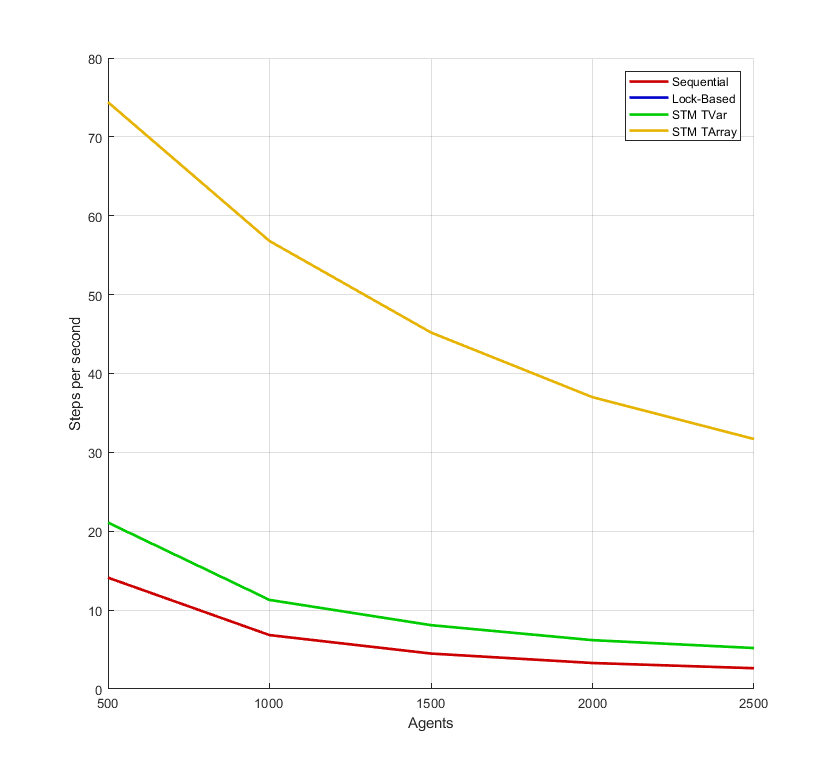
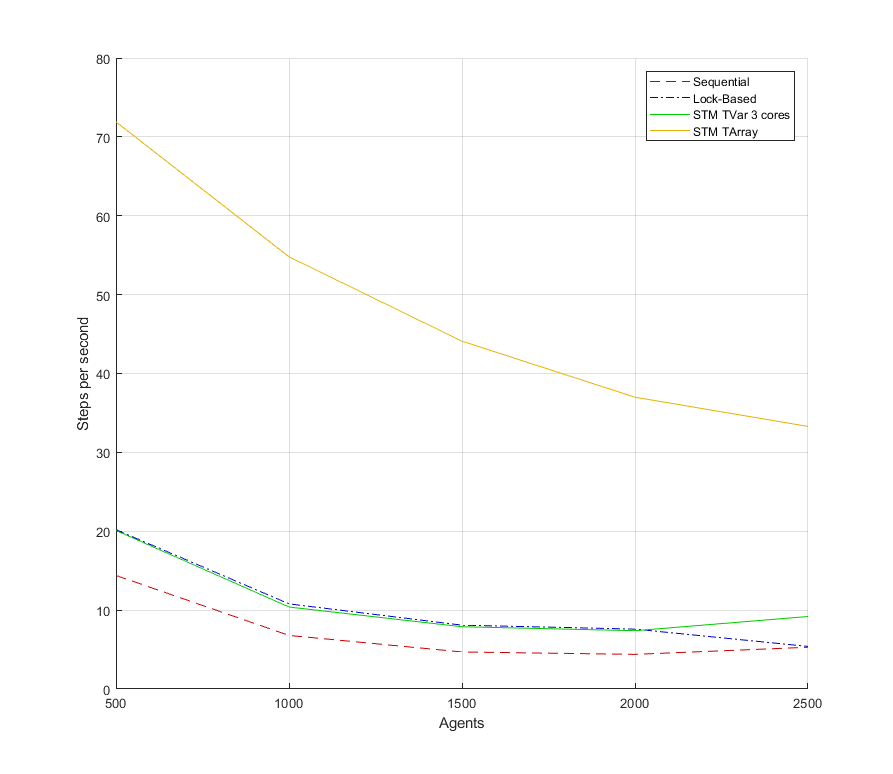
re-rendered matlab figures

diff --git a/writing/papers/workingdrafts/stmabs/results/sug/varying_cores.m b/writing/papers/workingdrafts/stmabs/results/sug/varying_cores.m
@@ -13,15 +13,21 @@ cores = [1, 2, 3, 4];
 figure;
 hold on;
 yyaxis left
-plot(cores, sequential, 'Color', [0.7, 0, 0], 'LineWidth', 2);
-plot(cores, io, 'Color', [0, 0, 0.8], 'LineWidth', 2);
-plot(cores, stm_tvar, 'Color', [0, 0.7, 0], 'LineWidth', 2);
-plot(cores, stm_tarray, 'Color', [0, 0.7, 0], 'LineWidth', 2);
+% plot(cores, sequential, 'Color', [0.7, 0, 0], 'LineWidth', 2);
+% plot(cores, io, 'Color', [0, 0, 0.8], 'LineWidth', 2);
+% plot(cores, stm_tvar, 'Color', [0, 0.7, 0], 'LineWidth', 2);
+% plot(cores, stm_tarray, 'Color', [0, 0.7, 0], 'LineWidth', 2);
+plot(cores, sequential);
+plot(cores, io);
+plot(cores, stm_tvar);
+plot(cores, stm_tarray);
 ylabel ("Steps per second");
 
 yyaxis right
-plot (cores, stm_tvar_retries, 'Color', [0.9, 0.7, 0], 'LineWidth', 2);
-plot (cores, stm_tarray_retries, 'Color', [0.9, 0.7, 0], 'LineWidth', 2);
+% plot (cores, stm_tvar_retries, 'Color', [0.9, 0.7, 0], 'LineWidth', 2);
+% plot (cores, stm_tarray_retries, 'Color', [0.9, 0.7, 0], 'LineWidth', 2);
+plot (cores, stm_tvar_retries);
+plot (cores, stm_tarray_retries);
 ylabel ("Retries");
 
 legend ("Sequential", "Lock-Based", "STM TVar", "STM TArray", "STM TVar Retries", "STM TArray Retries");

diff --git a/writing/papers/workingdrafts/stmabs/results/sug/varying_agents.m b/writing/papers/workingdrafts/stmabs/results/sug/varying_agents.m
@@ -1,19 +1,21 @@
-sequential = [14.121, 6.841, 4.5, 3.302, 2.641];
-io = [21.1, 11.3, 8.1, 6.2, 5.2];
-stm_tvar = [21.1, 11.3, 8.1, 6.2, 5.2];
-stm_tarray = [74.4, 56.8, 45.2, 37.0, 31.7];
+sequential = [14.4, 6.8, 4.7, 4.4, 5.30];
+io = [20.2, 10.8, 8.1, 7.6, 5.4];
+stm_tvar_3 = [20.1, 10.4, 7.9, 7.4, 9.2];
+stm_tvar_4 = [18.5, 9.5, 7.3, 6.7, 8.9];
+stm_tarray = [71.9, 54.8, 44.1, 37.0, 33.3];
 
 agents = [500, 1000, 1500, 2000, 2500];
 
 figure;
 hold on;
 
-plot(agents, sequential, 'Color', [0.8, 0.0, 0], 'LineWidth', 2);
-plot(agents, io, 'Color', [0, 0, 0.8], 'LineWidth', 2);
-plot(agents, stm_tvar, 'Color', [0, 0.8, 0], 'LineWidth', 2);
-plot(agents, stm_tarray, 'Color', [0.9, 0.7, 0], 'LineWidth', 2);
+plot(agents, sequential, '--', 'Color', [0.8, 0.0, 0]);
+plot(agents, io, '-.', 'Color', [0, 0, 0.8]);
+plot(agents, stm_tvar_3, 'Color', [0, 0.8, 0]);
+%plot(agents, stm_tvar_4, 'Color', [0, 0.8, 0.8]);
+plot(agents, stm_tarray, 'Color', [0.9, 0.7, 0]);
 
-legend ("Sequential", "Lock-Based", "STM TVar", "STM TArray");
+legend ("Sequential", "Lock-Based", "STM TVar 3 cores", "STM TArray");
 xlabel ("Agents");
 ylabel ("Steps per second");
 grid on;
